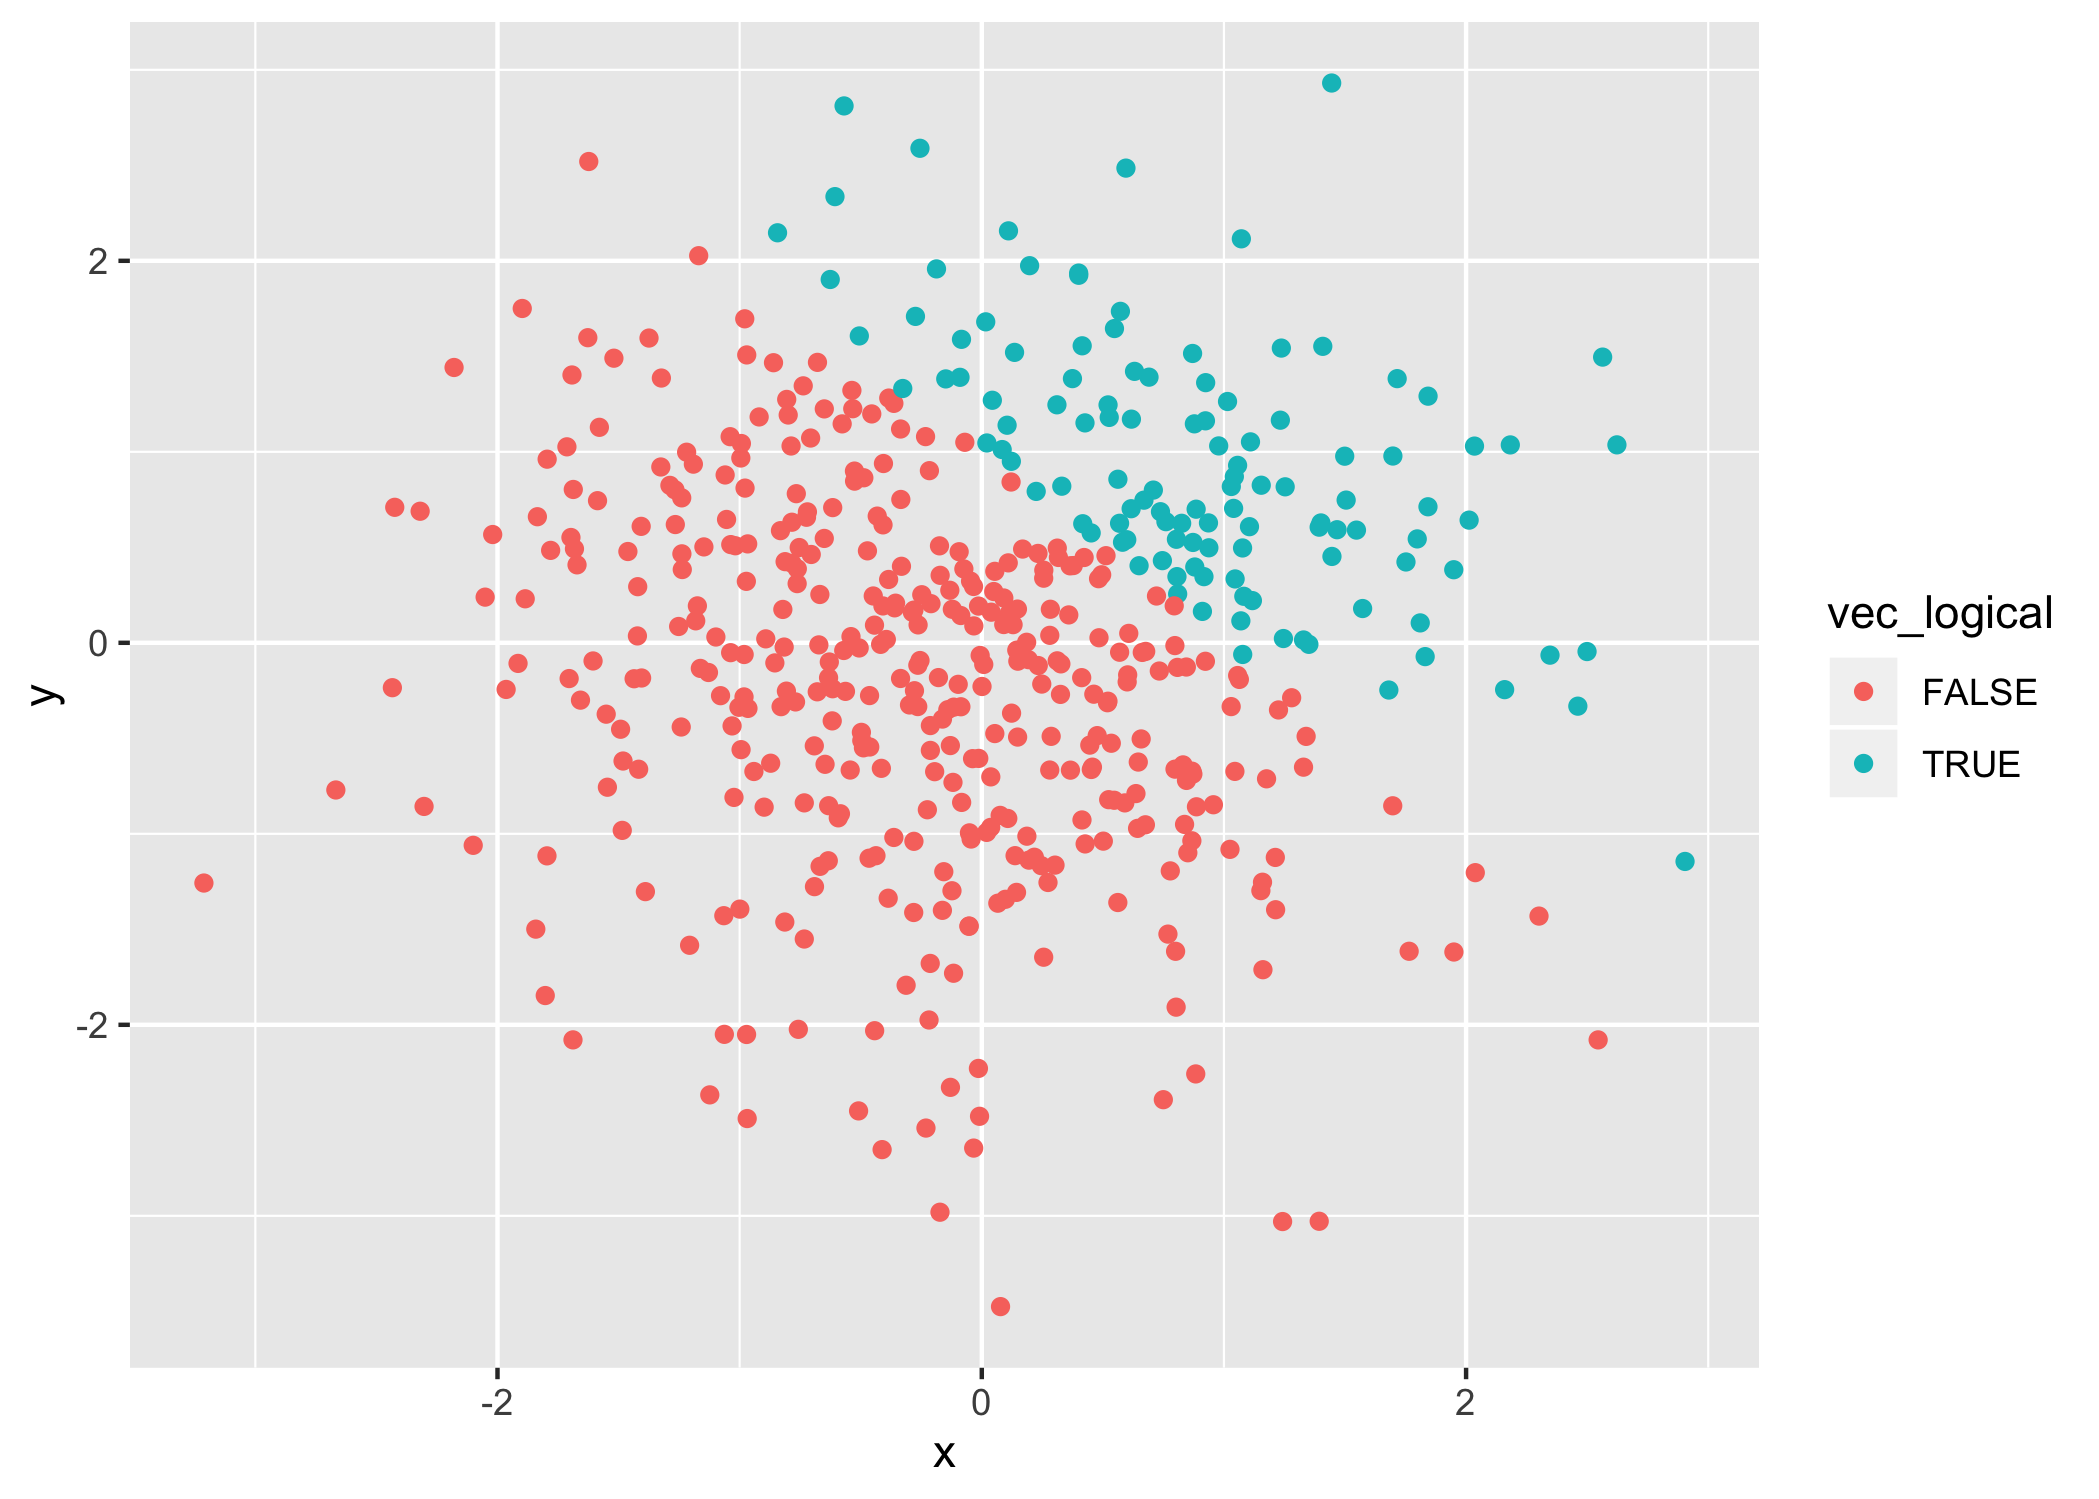
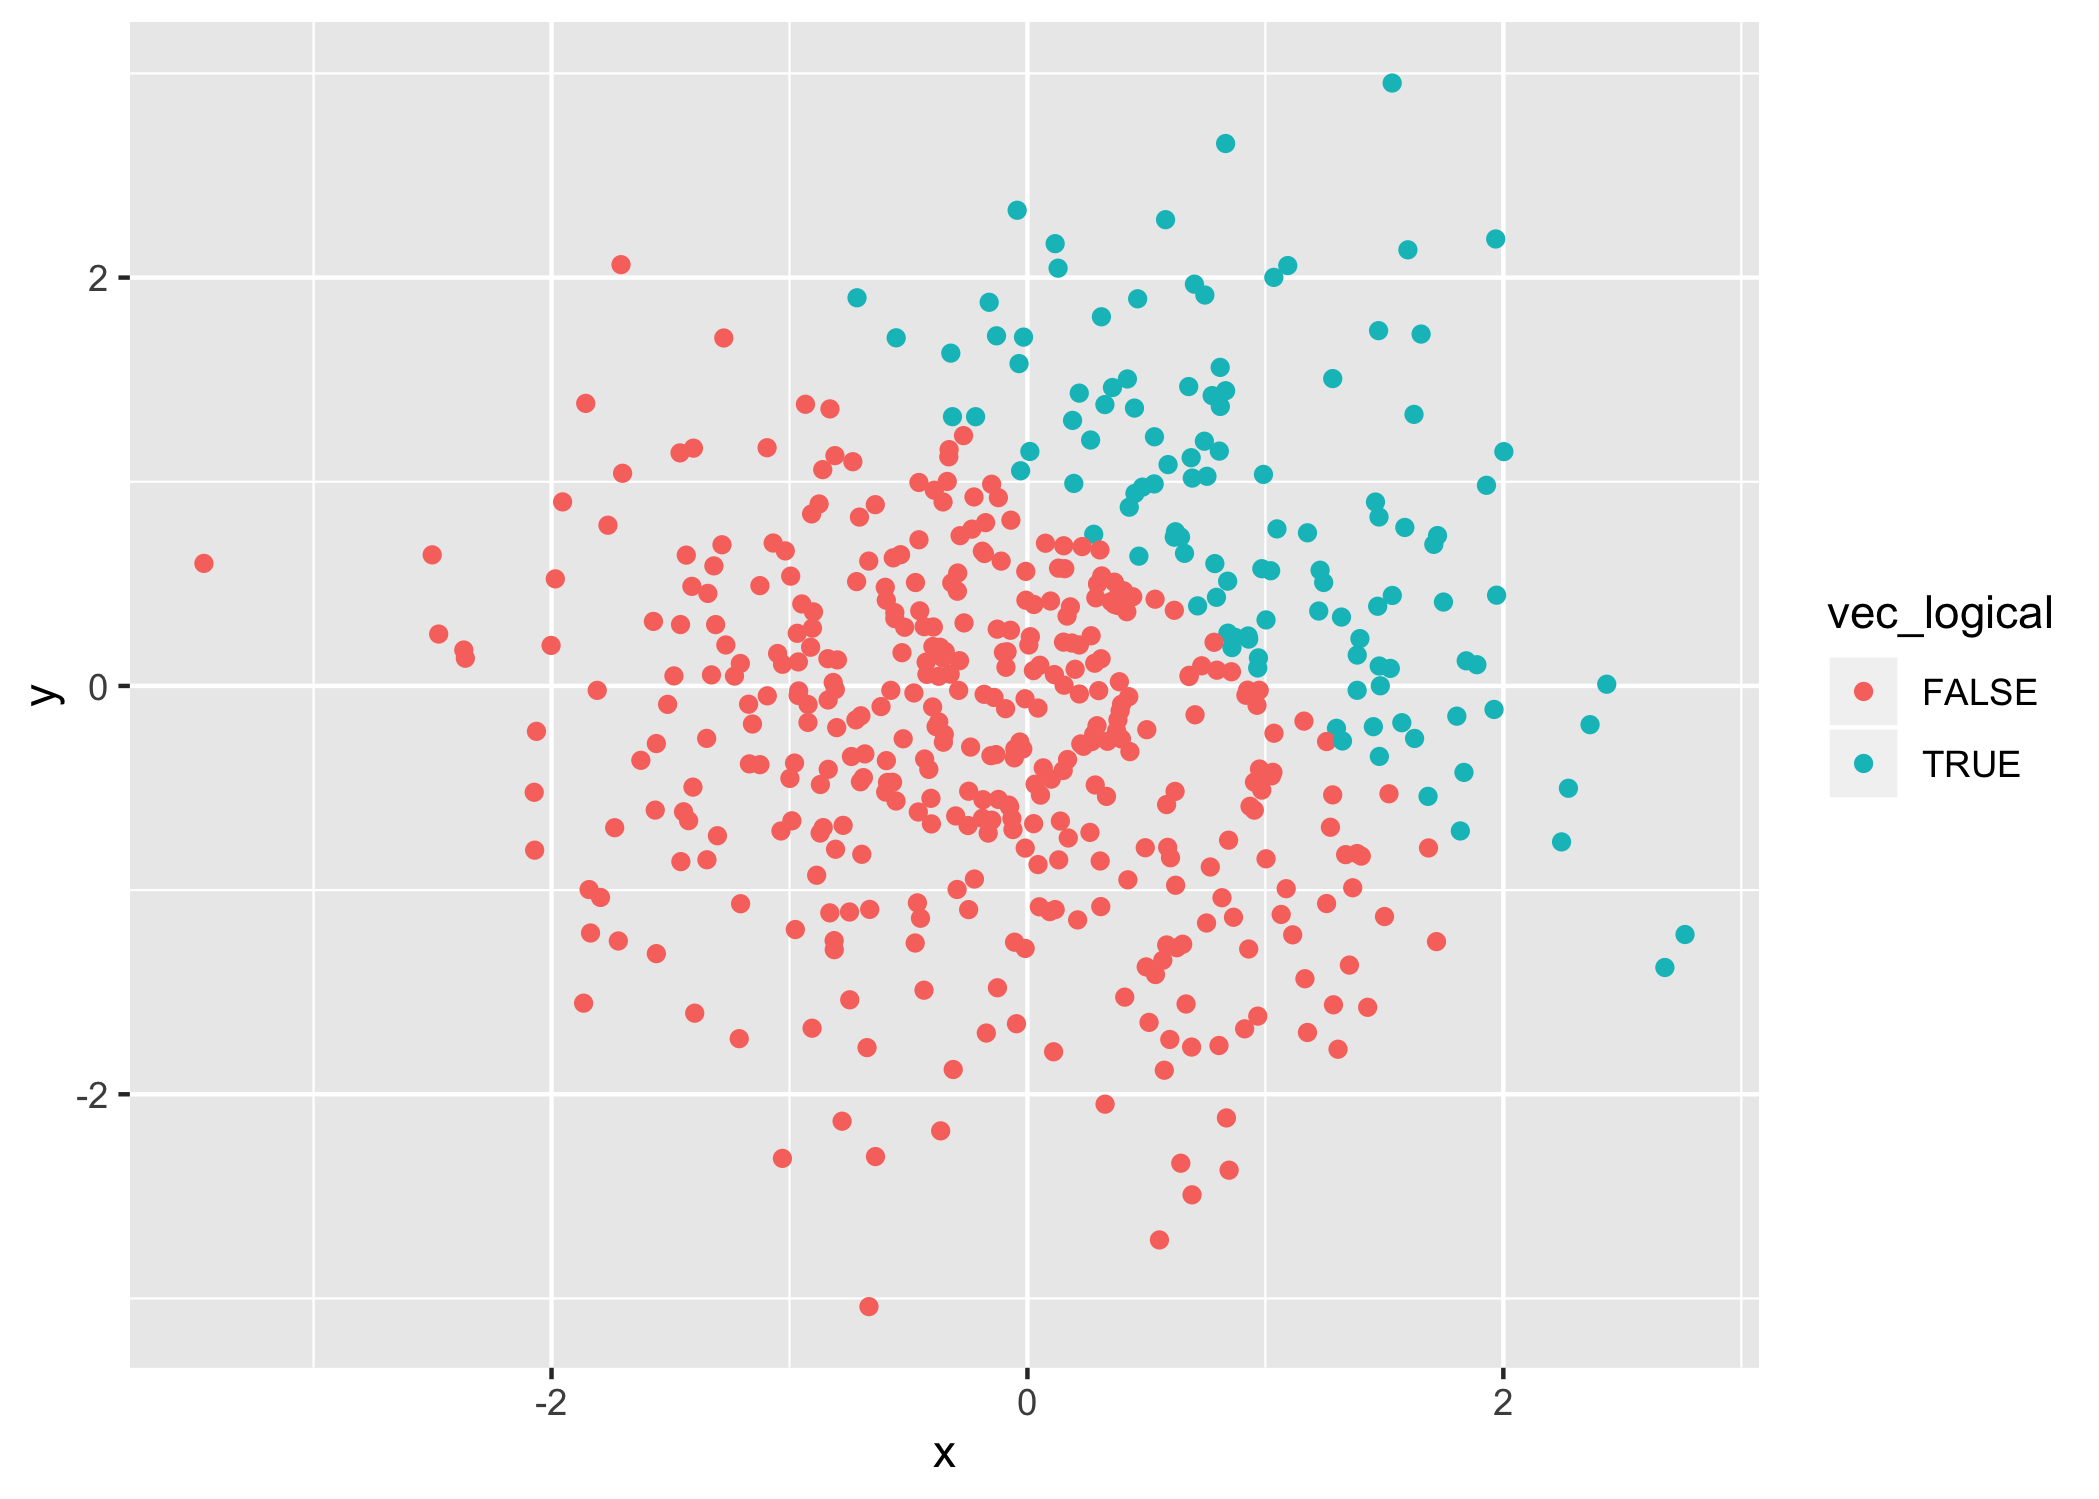
More detailed answer in the question about converting the variable types.

diff --git a/p8105_hw1_qz2392.md b/p8105_hw1_qz2392.md
@@ -26,7 +26,7 @@ Take the mean of each variable.
 
 ``` r
 mean(pull(df_1, vec_numeric))
-## [1] 0.1024219
+## [1] 0.204777
 mean(pull(df_1, vec_logical))
 ## [1] 0
 mean(pull(df_1, vec_char))
@@ -52,7 +52,10 @@ as.numeric(pull(df_1, vec_factor))
 ```
 
 Logical variables and factor variables can be converted to numerical,
-but character variables can’t be. It explains why we can take mean of
+but character variables can’t be. Because in R, if we do numerical
+calculation to logical and factor variables, they are automatically
+turned into numerical form which still represents specific categories,
+while character variables can’t be. It explains why we can take mean of
 logical variables, but can’t explain why we can’t do so to factor
 variables.
 
@@ -67,8 +70,8 @@ as.factor(pull(df_1, vec_logical))*pull(df_1, vec_numeric)
 ## vec_numeric)): '*' not meaningful for factors
 ## [1] NA NA NA NA NA NA NA NA
 as.numeric(as.factor(pull(df_1, vec_logical)))*pull(df_1, vec_numeric)
-## [1] -0.629216404  0.215480193  0.471658145 -0.003363938  1.720281127
-## [6]  0.029681990 -1.053193921  0.068048019
+## [1]  0.3302075  1.0593018 -0.7599267  1.1443523 -0.4518341  0.4818407
+## [7]  0.7879920 -0.9537177
 ```
 
 It doesn’t work when converting logical variables to factor ones. \#
@@ -86,9 +89,9 @@ df_2= tibble(
 
 Get some descriptive statistics of the variables above. Number of
 columns of the dataframe is 5, while number of rows of the dataframe is
-500. Mean of x in dataframe is -0.0394708. Median of x in dataframe is
--0.0486795. Standard deviation of x in dataframe is 0.9983421.
-Proportions of the vec\_logicals which are True are 0.234.
+500. Mean of x in dataframe is 0.0454778. Median of x in dataframe is
+0.0444304. Standard deviation of x in dataframe is 0.9729152.
+Proportions of the vec\_logicals which are True are 0.232.
 
 Make scatterplots of y vs x with different color scale and save them:
 
